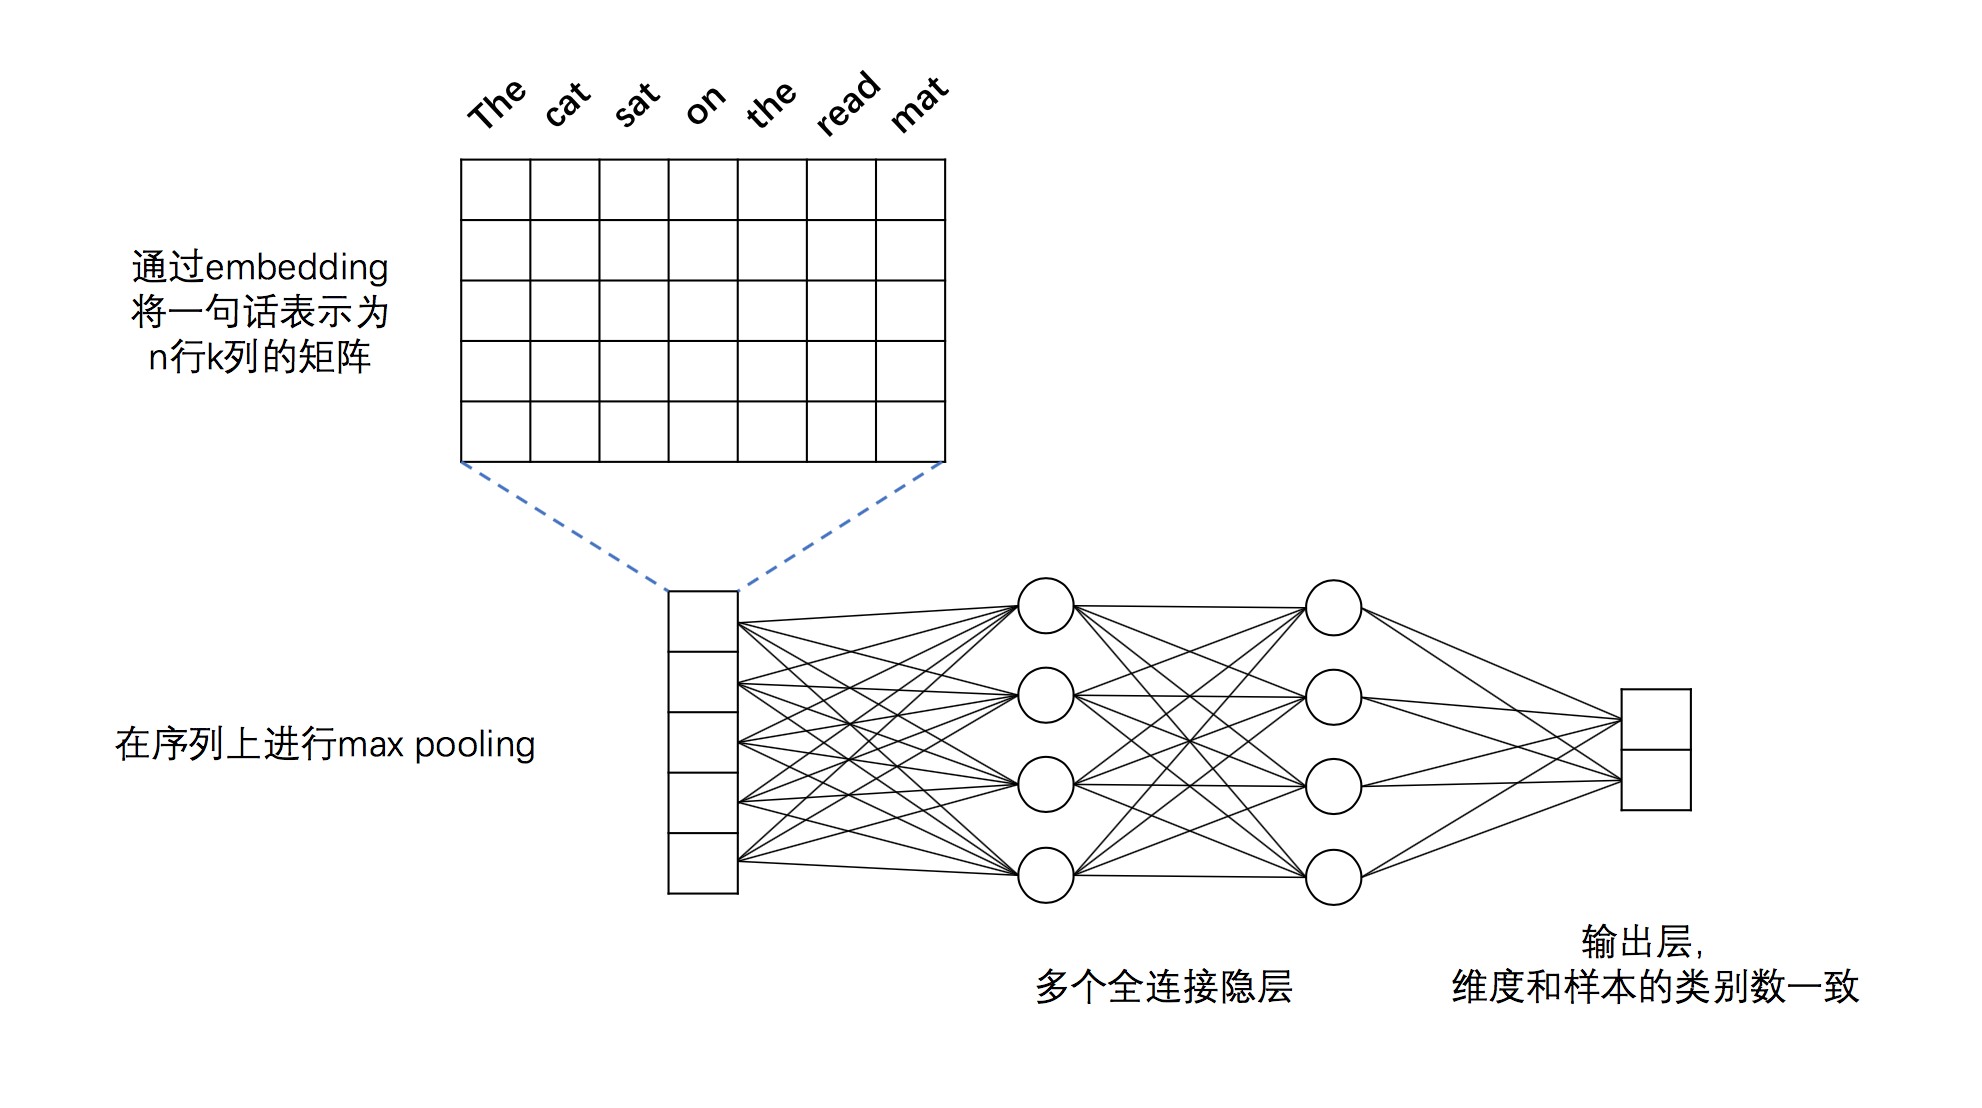
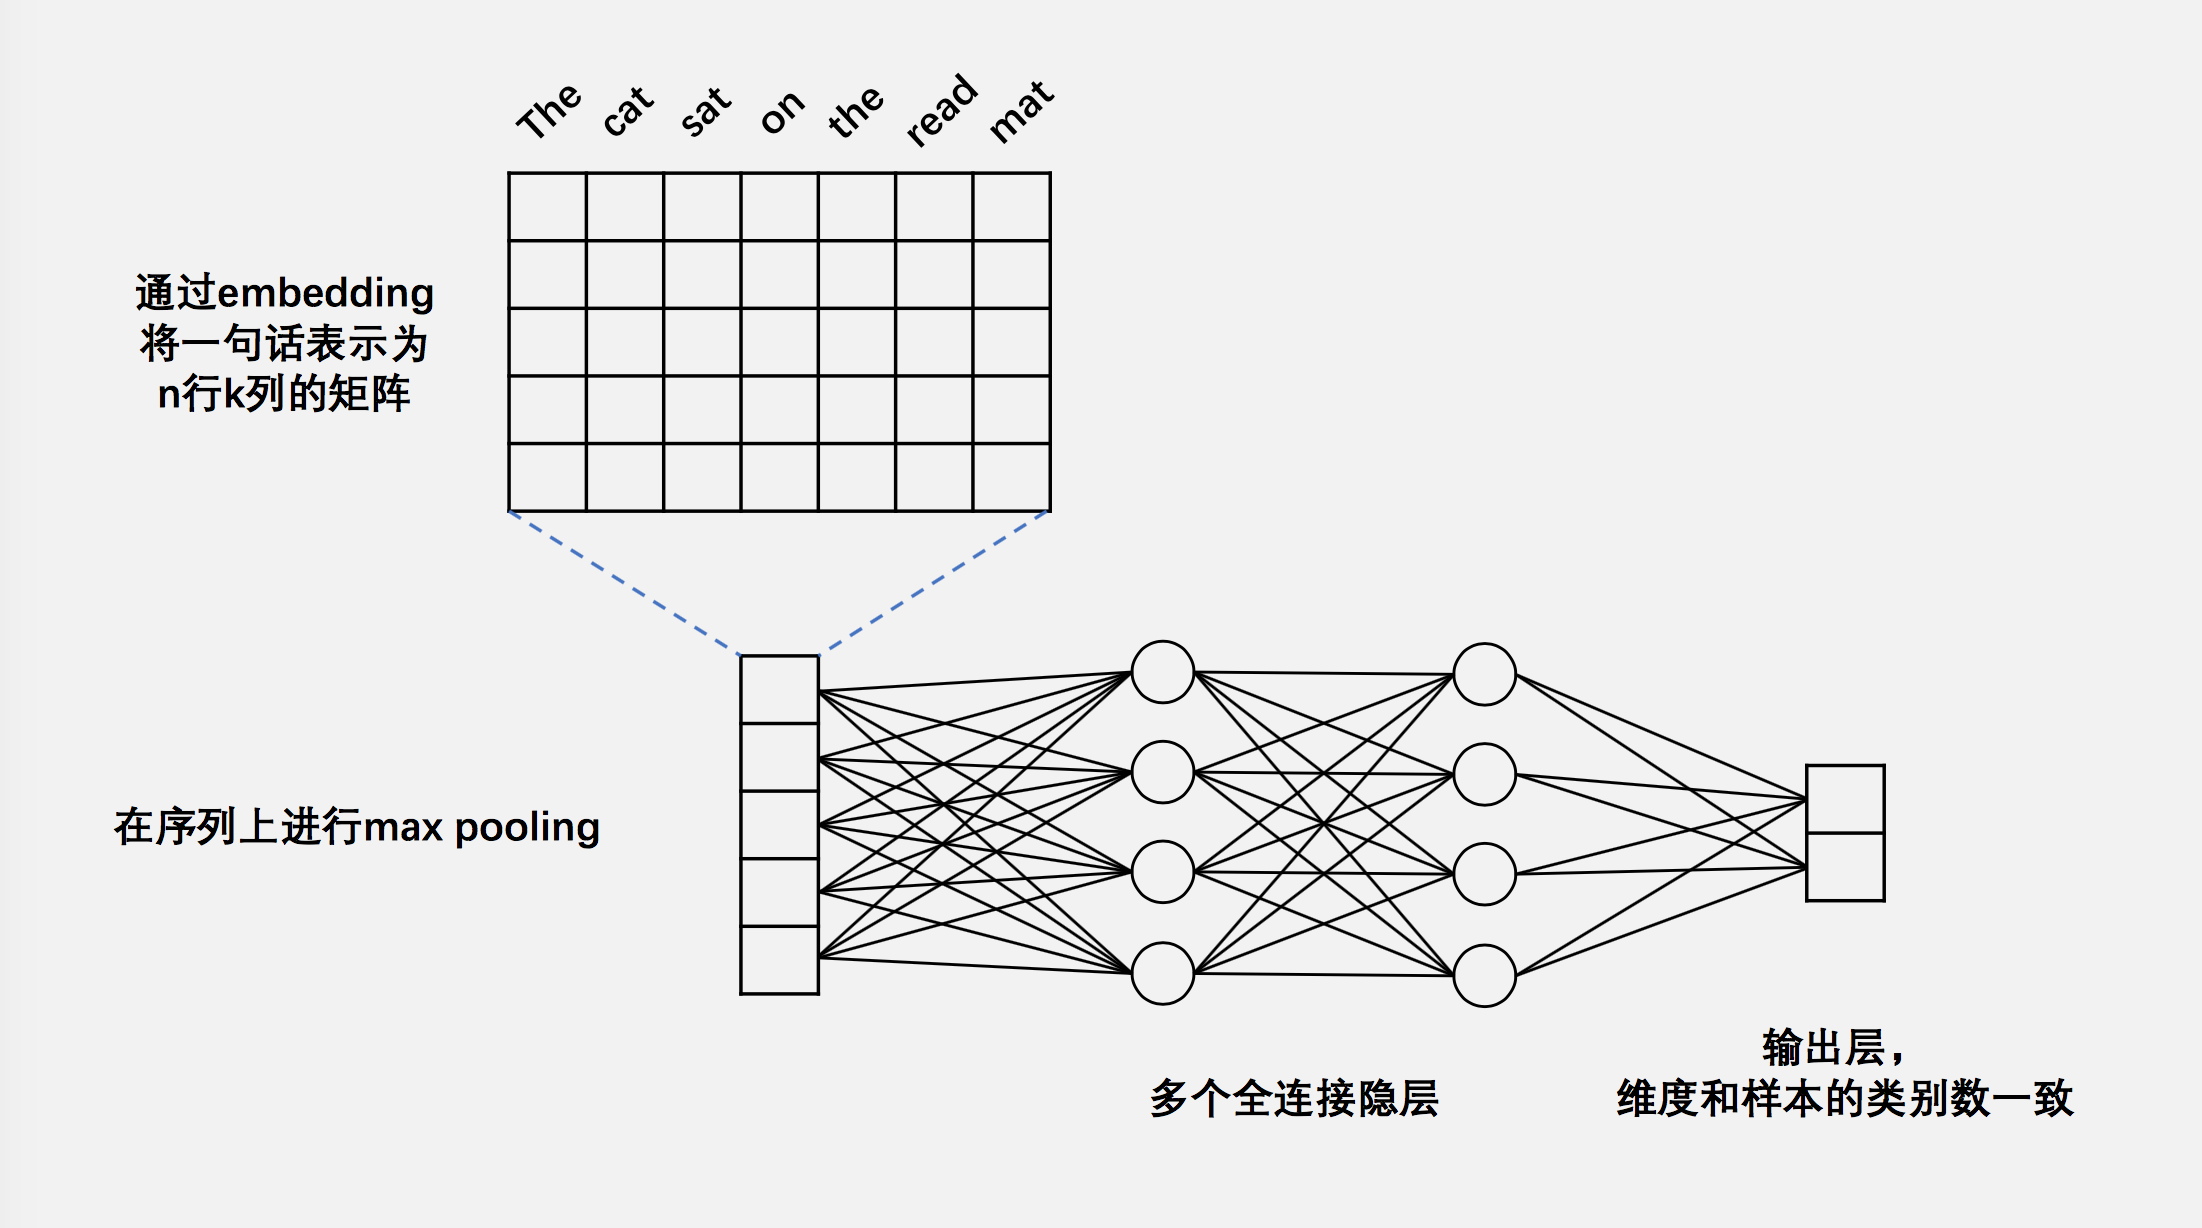
change dnn_net.png

diff --git a/text_classification/README.md b/text_classification/README.md
@@ -7,6 +7,6 @@
 ## DNN模型结构
 DNN的模型结构入下图所示：
 <p align="center">
-<img src="images/dnn_net.png" width = "100%" align="center"/><br/>
+<img src="images/dnn_net.png" width = "90%" align="center"/><br/>
 图1. DNN文本分类模型
 </p>
